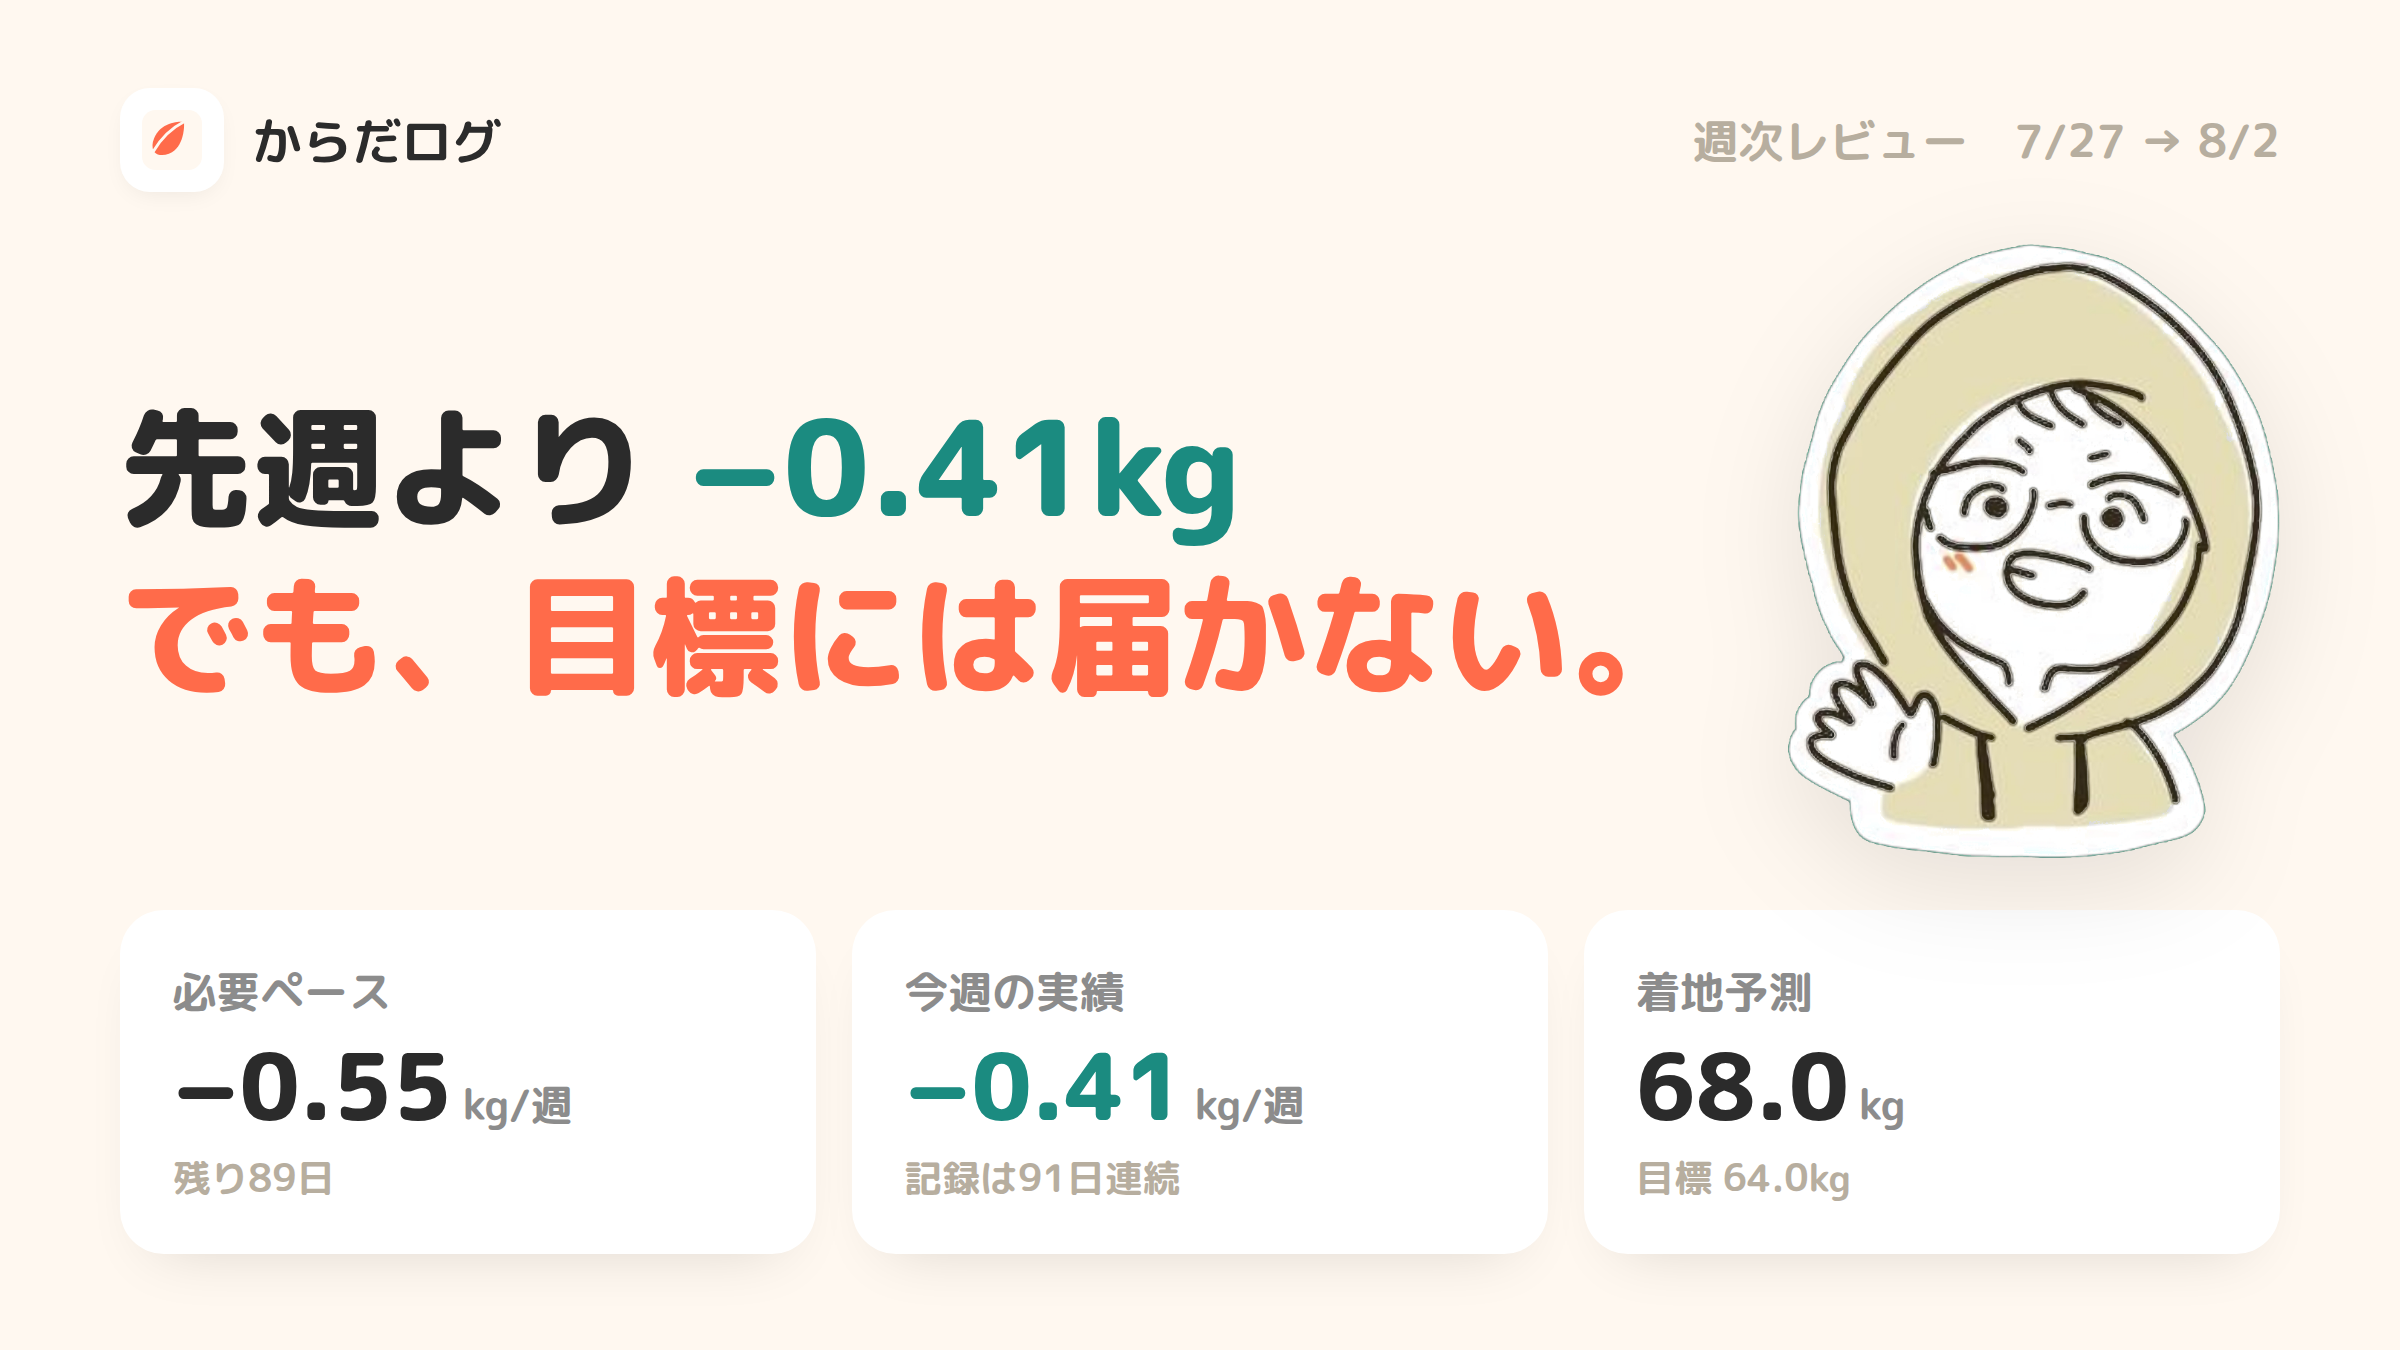
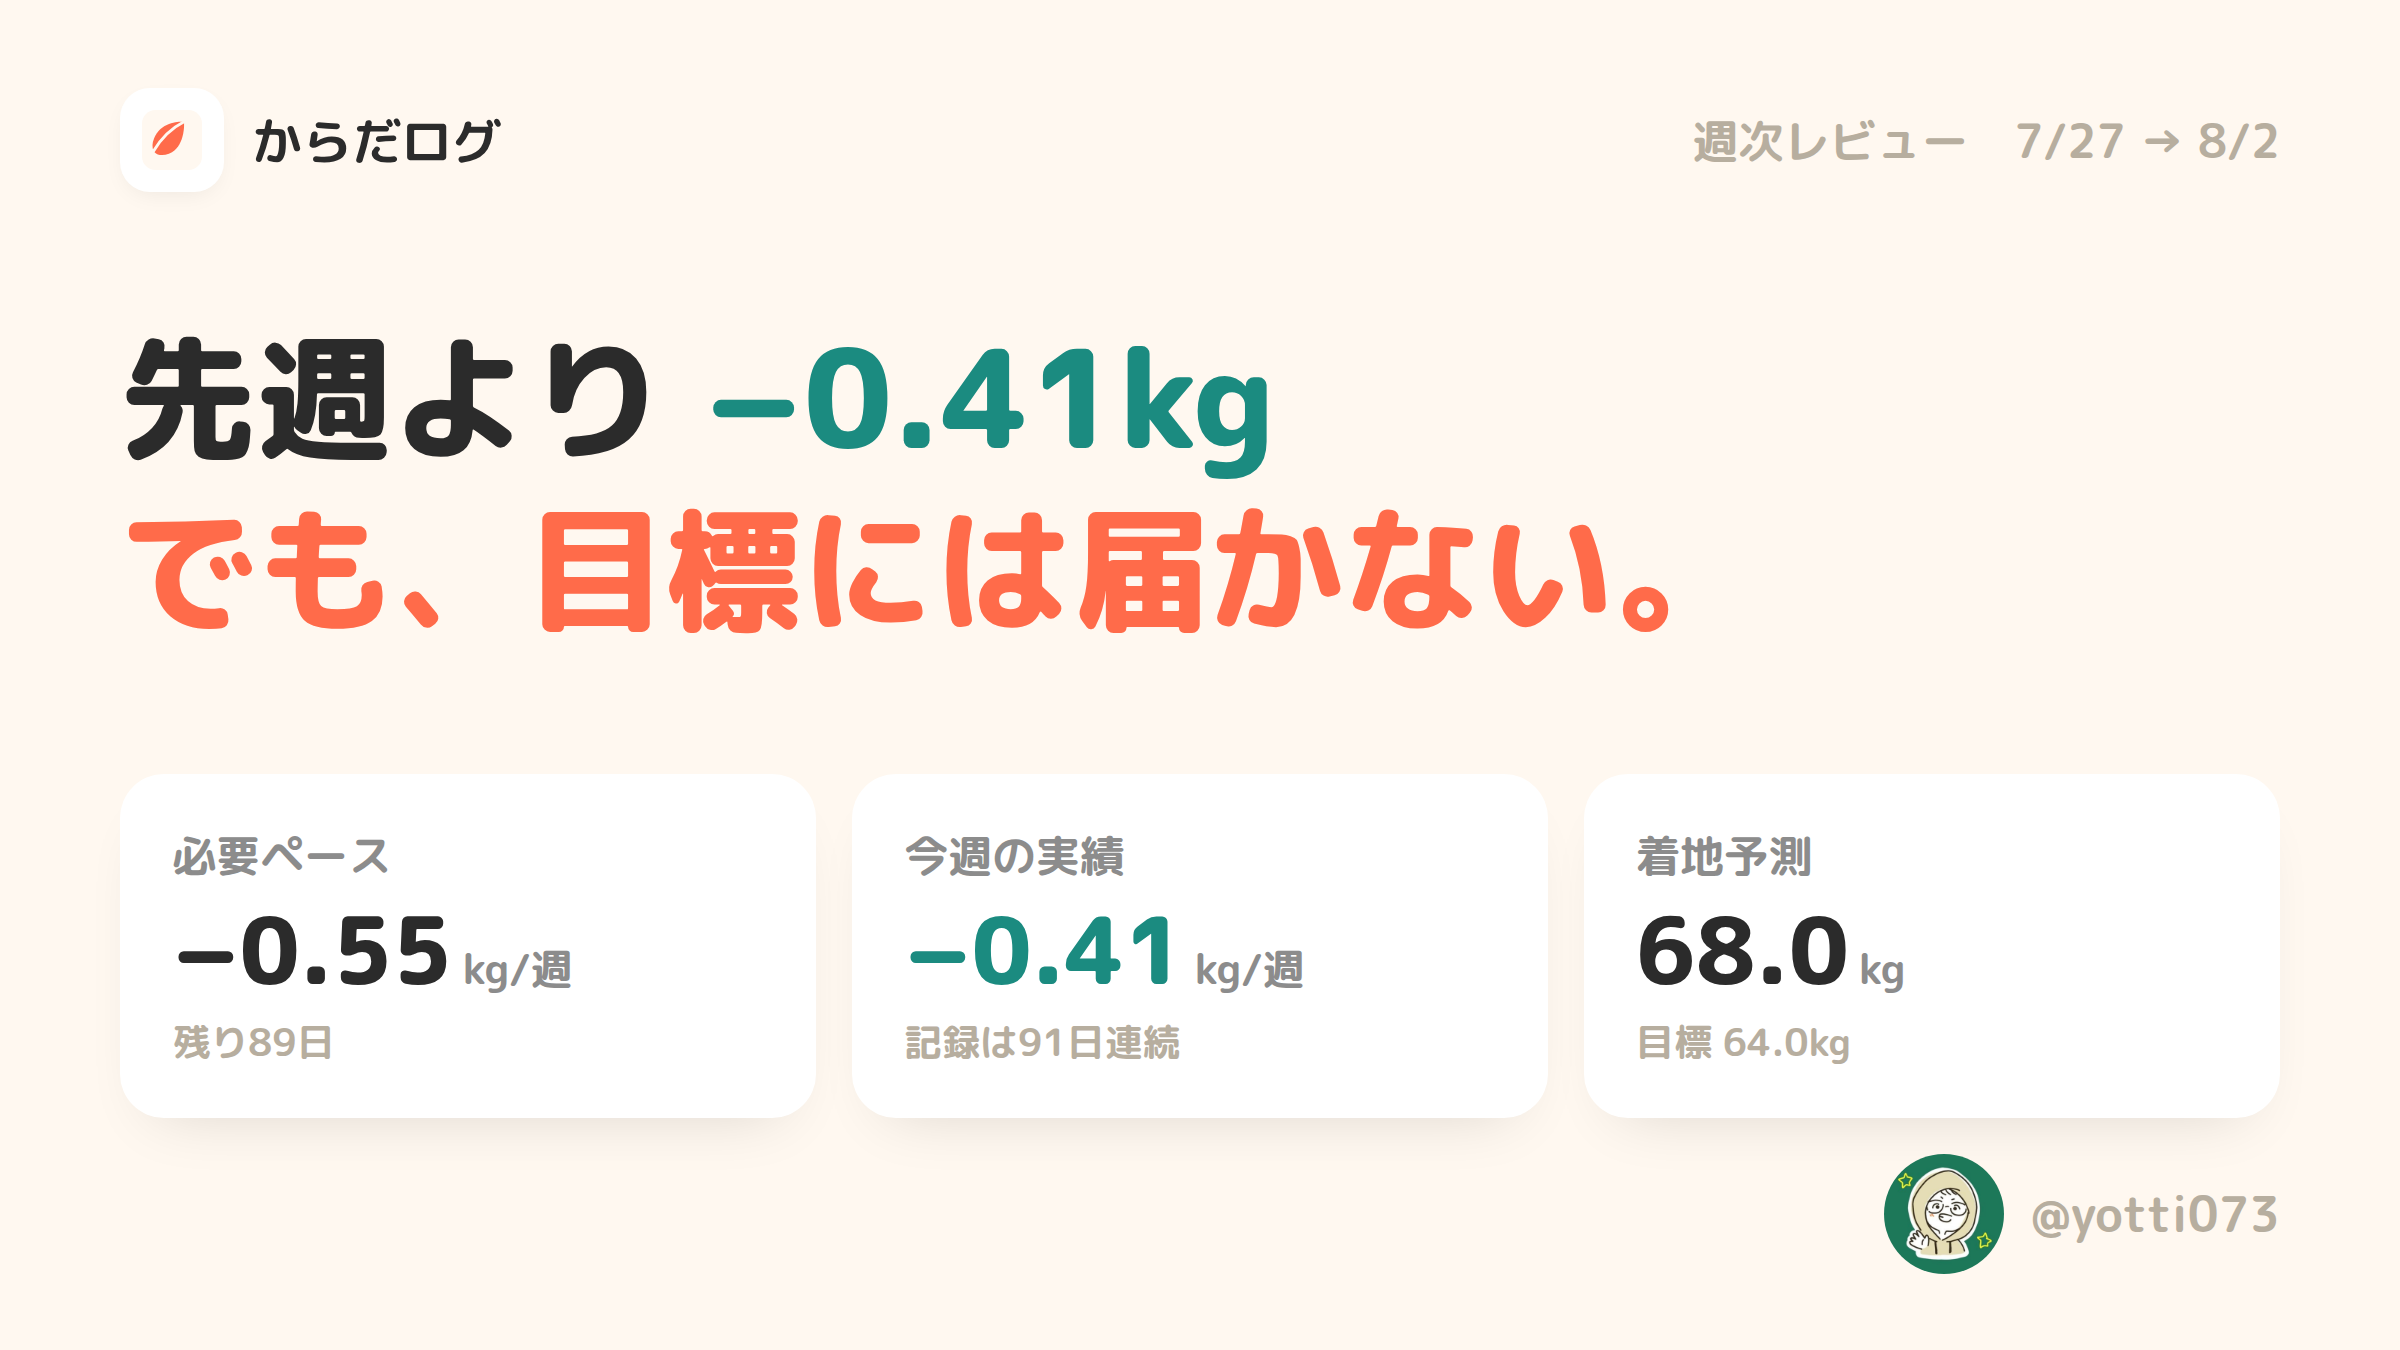
X投稿画像のアイコンを右下の署名に置き換える
背景を抜いたキャラを見出しの横に大きく配置すると貼り付けたステッカーの
ように見えて浮くため、丸型アイコン+ハンドルの署名として右下に置く形に
変更した。アイコン素材は緑背景のまま正方形に切り出したものを使い回す。
noteのサムネイルにはアイコンを入れない方針もあわせて記録した。

Claude-Session: https://claude.ai/code/session_011grSZm1p2X5xrYsboERqFf

diff --git a/articles/README.md b/articles/README.md
@@ -90,7 +90,7 @@ Zennの技術記事は、バズ(はてブ・トレンド)の一発より、**具
 
 記事のサムネイル・図・X投稿用画像は、HTML/CSSで組んでPlaywrightでPNGに書き出す。配色はアプリのデザイントークン(クリーム `#FFF8F0` / プライマリ `#FF6B4A` / ティール `#14B8A6`)に合わせる。
 
-- **X投稿用の画像には、プロフィールアイコンのキャラクターを登場させる**(2026-08-03決定)。Xのアイコンと同じキャラが画像内にいると、タイムライン上で「この人の投稿だ」と認識されやすい。背景を除去した透過PNGを `プロフィールアイコン_切り抜き.png` に置いてあるので、以降はこれを読み込んで使う(元のアイコン画像は緑背景のスクショなので、緑を抜いて最大連結成分だけを残し、白フチに残った緑かぶりを中和して作った)
+- **X投稿用の画像には、右下に「丸型アイコン+ハンドル(@yotti073)」の署名を入れる**(2026-08-03決定)。Xのアイコンと同じ絵が画像内にあると、タイムライン上で「この人の投稿だ」と認識されやすい。アイコン素材は `プロフィールアイコン.png`(元の緑背景のまま正方形に切り出したもの)。**キャラだけを切り抜いて大きく配置する案は「浮いて見える」ため却下した**(2026-08-03、本人判断)— 背景を抜いたキャラを本文の横に置くと、貼り付けたステッカーのように見えて画面から浮く。小さく署名として置くほうが意図的に見える。**noteのサムネイルには入れない**(同日決定。noteは記事の顔なので数字と見出しに集中させる)
 - **既定フォントは M PLUS Rounded 1c(丸ゴシック)。** note記事1のサムネイルがこれで、シリーズの見た目をここに揃える(2026-08-02決定)。見出しは800、本文は400〜700。コード・IDなど等幅にしたい箇所だけmonospaceを使う。例外として `note03_サムネ.png` だけは Zen Kaku Gothic New(角ゴシック)で作ってあり、これは当時の判断のまま残す
 - **Google Fontsをレンダリング環境から直接読めない場合がある。** ヘッドレスChromiumから `fonts.googleapis.com` に到達できず、CSSの指定が無視されてシステムのゴシックに**黙ってフォールバックする**(エラーにならないので気づきにくい)。`curl` は通るので、Google Fontsの `text=` サブセット機能で必要な文字だけのwoff2を取得し、base64で `@font-face` に埋め込んでからレンダリングする。書き出し後は `document.fonts.size` が0でないことを必ず確認する
 - **上下に間延びした余白を作らない。** キャンバスを `grid-template-rows: auto auto 1fr auto`(ヘッダー/見出し/本体/フッター)で組み、本体のカードを `align-items: stretch`、中の行を `flex: 1` で伸ばして高さを埋める。中身が薄くて埋まらない場合は、余白を足すのではなく**情報を足す**(コード1行を添える、対になる事例をもう1行足す等)か、キャンバスの縦を詰める
@@ -105,4 +105,4 @@ Zennの技術記事は、バズ(はてブ・トレンド)の一発より、**具
 - 2026-08-02: zenn03のX投稿文を確定し、`X投稿テンプレート.md` に記入例として追加。初回投稿用の画像(`zenn03_X画像_upsert.png`)を作成した。フックは削除順序のgotchaより「個人開発のDB、スプレッドシートで十分だった」という判断から入るほうが射程が広いと判断し、画像の見出しも同じ主張に揃えて画像単体でフックが完結する形にした。先に作っていた削除順序の図は再放流用に残す。あわせて、技術詳細だけで「何のアプリの話か」が抜けていたため、本文と自己リプ②にアプリの説明を1行ずつ入れ、発信のレーンを毎回通すルールをテンプレの記入例・チェックリストに追加した
 - 2026-08-02: 記事画像の作り方を「画像(サムネイル・記事中の図)の作り方」節として明文化。zenn03の2枚は当初、ヘッドレスChromiumがGoogle Fontsに到達できずシステムのゴシックにフォールバックしていた(指定は効いていたつもりだった)ため、サブセットwoff2の埋め込みに切り替えてM PLUS Rounded 1cで作り直した。併せて上下の余白が間延びしていたのを、カード・行を伸ばして高さを埋める構成に変更(概念図は3200×1600へ、右カードには追記ケースの行を足して左右の行数を揃えた)
 - 2026-08-03: note04(週次実験レポート・7/27週)の下書きを追加。前週の体調不良から体重は71.0kgまで−0.41kg減少し持ち直したが、目標ペース(−0.55kg/週)には届かず、現在ペースでの着地予測68.0kgは目標64.0kgに届かない見込みとAIコーチが注意喚起(ステータス「やや遅れ」)。開発トピックは該当期間に`src/`・`worker/`へのcommitが無かったため省略。タイトルは本人選択で「体重は減ったのに、まだ届かない」に確定。サムネイル(`note04_サムネ.png`)を既定フォーマット(M PLUS Rounded 1c)で作成 — Google Fontsのサブセットwoff2をbase64埋め込みし、Playwrightでスクリーンショット。あわせてnote03(7/20週分)がnote.com公開済み([note.com/yotti073/n/n66e3b3692745](https://note.com/yotti073/n/n66e3b3692745))であることを本人に確認できたため、README・note03・note04の状態表記とリンクを更新した
-- 2026-08-03: note04のX投稿文を確定し、`X投稿テンプレート.md` に週次レポート回の記入例として追加。X用画像(`note04_X画像.png`、1200×670)はnoteサムネの流用ではなく専用に作成した — noteサムネは4行の数値カードが主役でタイムライン上では小さく読めないため、見出し2行+数値カード3枚(必要ペース/今週の実績/着地予測)に絞って文字を大きくし、「必要ペース−0.55 vs 実績−0.41」を並べることで画像だけで「届いていない」が伝わる構成にした。本人提案でプロフィールアイコンのキャラクターを画像に登場させることにし、緑背景を除去した透過PNGを `プロフィールアイコン_切り抜き.png` として今後使い回せる形で保存した
+- 2026-08-03: note04のX投稿文を確定し、`X投稿テンプレート.md` に週次レポート回の記入例として追加。X用画像(`note04_X画像.png`、1200×670)はnoteサムネの流用ではなく専用に作成した — noteサムネは4行の数値カードが主役でタイムライン上では小さく読めないため、見出し2行+数値カード3枚(必要ペース/今週の実績/着地予測)に絞って文字を大きくし、「必要ペース−0.55 vs 実績−0.41」を並べることで画像だけで「届いていない」が伝わる構成にした。本人提案でXのプロフィールアイコンを画像に入れることにし、右下に「丸型アイコン+@yotti073」の署名として配置した(背景を抜いたキャラを見出しの横に大きく置く案を先に試したが「浮いて見える」ため却下)。アイコン素材は `プロフィールアイコン.png` として今後使い回せる形で保存。noteのサムネイルには入れない方針も同時に決めた

diff --git a/articles/X投稿テンプレート.md b/articles/X投稿テンプレート.md
@@ -161,7 +161,7 @@ https://note.com/yotti073/n/n54d80318b1d8
 
 - **週次レポート回のフックは「良い数字」で終わらせず、その直後に反転を置く。** 「−0.41kg減った」だけだと自慢で終わって読む理由が無い。「減ってはいる。でも届かない」と**減ったのに足りない**という緊張を1〜2行目で作ると、続きを読む動機になる。数字が良かった週でも悪かった週でも、この「事実→反転」の型は使い回せる
 - **X画像は週次サムネの流用ではなく、専用に作った。** テンプレの既定はnoteサムネの流用だが、noteサムネは4行の数値カードが主役でタイムライン上(特にモバイル)では小さくて読めない。X画像は16:9(1200×670)で、**見出し2行+数値カード3枚(必要ペース/今週の実績/着地予測)**に絞り、文字を大きくした。「必要ペース−0.55 vs 実績−0.41」と並べることで、本文を読まなくても画像だけで「届いていない」が伝わる
-- **プロフィールアイコンのキャラクターを画像に登場させる(2026-08-03、本人提案)。** Xのアイコンと同じキャラが画像内にいると、タイムラインで「この人の投稿だ」と認識されやすくなる。切り抜き済みの透過PNGを `プロフィールアイコン_切り抜き.png` として置いてあるので、以降の画像でも使い回す(元画像は緑背景のスクショなので、背景を除去して最大連結成分だけ残し、白フチに残った緑かぶりを中和してある)
+- **画像の右下に「丸型アイコン+@yotti073」の署名を入れる(2026-08-03、本人提案)。** Xのアイコンと同じ絵が画像内にあると、タイムラインで「この人の投稿だ」と認識されやすくなる。素材は `プロフィールアイコン.png`(元の緑背景のまま正方形に切り出したもの。CSSで `border-radius:50%` にして使う)。**最初はキャラだけを背景透過で切り抜き、見出しの横に大きく置いたが「浮いて見える」ため却下した** — 背景を抜いたキャラを本文の横に配置すると貼り付けたステッカーのように見え、レイアウトから浮く。小さく署名として置くほうが意図的に見え、ハンドルも一緒に露出できる
 
 ## 投稿前後のチェックリスト
 
@@ -172,7 +172,7 @@ https://note.com/yotti073/n/n54d80318b1d8
 - [ ] 画像を1枚付けた。
 - [ ] フック1行が「具体・数字・痛み・結果」のどれかになっている。
 - [ ] **アプリ名「からだログ」と、それが何かが1行入っている**(初見の人が読んでも、体重・食事を記録する自作PWAの話だと分かる)。「自作アプリ」とだけ書いて名前を落としていないか。
-- [ ] 画像にプロフィールアイコンのキャラクター(`プロフィールアイコン_切り抜き.png`)が入っている(タイムラインでの認識性のため)。
+- [ ] 画像の右下に「丸型アイコン(`プロフィールアイコン.png`)+@yotti073」の署名が入っている(タイムラインでの認識性のため)。
 - [ ] 読者層で混ぜていない(一般向けnoteの投稿にエンジニア向けZenn記事をぶら下げない、など)。
 - [ ] 投稿後、付いた反応には全部返信して会話を続ける。
 
